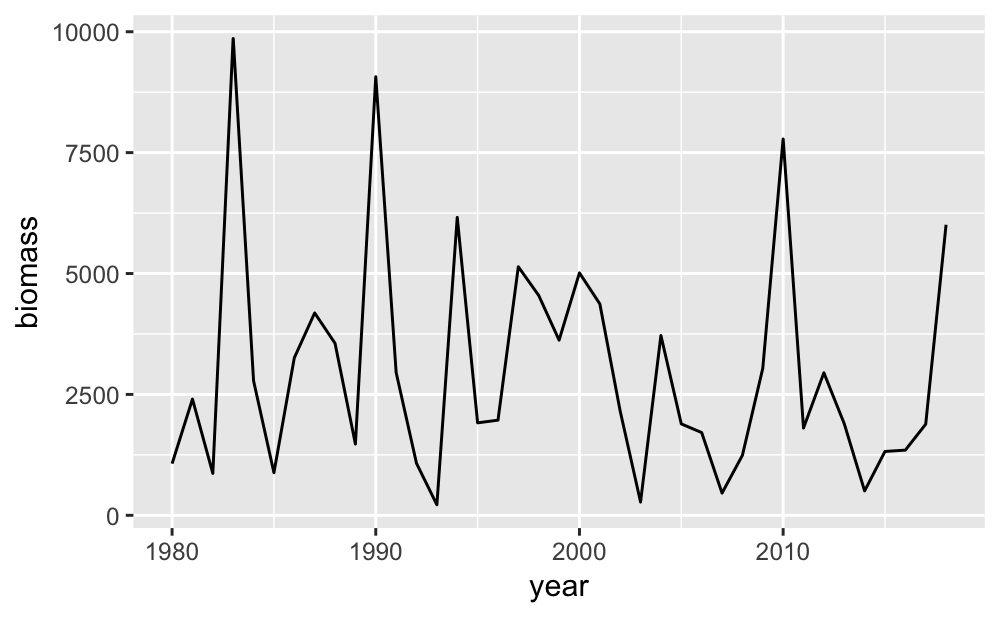
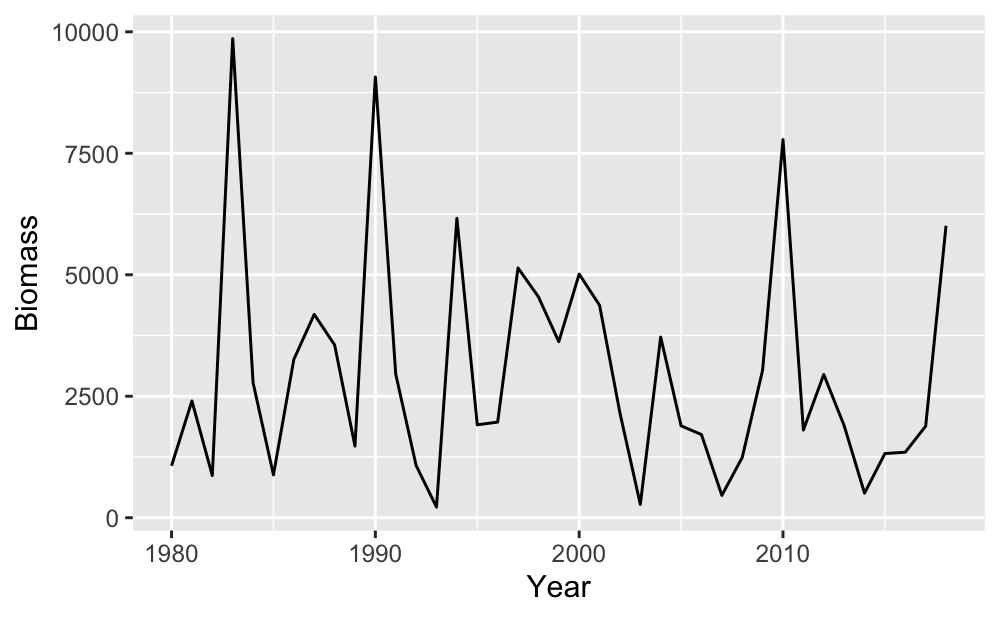
Update the readme file

diff --git a/README.md b/README.md
@@ -60,8 +60,8 @@ df <- data.frame(years, biomass = 2000 * rlnorm(length(years), 0, 1))
 ``` r
 make_plot <- function(french = FALSE) {
   ggplot(df, aes(years, biomass)) + geom_line() +
-    xlab(en2fr("year", french)) +
-    ylab(en2fr("biomass", french))
+    xlab(en2fr("Year", french)) +
+    ylab(en2fr("Biomass", french))
 }
 ```
 
@@ -78,17 +78,18 @@ make_plot(french = TRUE)
 <img src="man/figures/README-func-figs-2.png" width="70%" />
 
 ``` r
+english <- TRUE
 ggplot(df, aes(years, biomass)) + geom_line() +
-  xlab(fr2en("année")) +
-  ylab(fr2en("biomasse"))
+  xlab(fr2en("Année", english)) +
+  ylab(fr2en("Biomasse", english))
 ```
 
 <img src="man/figures/README-gg-figs-1.png" width="70%" />
 
 ``` r
 ggplot(df, aes(years, biomass)) + geom_line() +
-  xlab(trans("year", from = "english", to = c("english", "french"))) +
-  ylab(trans("biomass", from = "english", to = c("english", "french")))
+  xlab(trans("Year", from = "english", to = c("english", "french"))) +
+  ylab(trans("Biomass", from = "english", to = c("english", "french")))
 ```
 
 <img src="man/figures/README-gg-figs-both-1.png" width="70%" />
@@ -102,7 +103,9 @@ ggplot(df, aes(years, biomass)) + geom_line() +
     text editor. Please ensure your editor is saving in UTF-8 format.
     [Help with UTF-8 file encoding and
     RStudio](https://support.rstudio.com/hc/en-us/articles/200532197-Character-Encoding).
-3.  Push to GitHub and submit a pull request.
+3.  Source the file data/make-dictionary.R to include data in the
+    package.
+4.  Push to GitHub and submit a pull request.
 
 *If you’d rather a quick way to edit without worrying about Git or file
 encodings*:
@@ -115,6 +118,32 @@ encodings*:
 If both of those options are confusing, just [create an
 Issue](https://github.com/pbs-assess/rosettafish/issues/new) on the
 GitHub site and give us your new translated terms.
+
+## Updating the list and reloading the package to use your terms
+
+The above instructions are fine if you’re willing to wait for us to
+merge your pull request. If instead you want to update the terms and use
+the package immediately, follow the above instructions to add your terms
+and then open `data-raw/make-dictionary.R` and source it in R. This
+will:
+
+  - sort the `inst/extdata/terms.csv` dictionary file alphabetically
+  - stop you if there are any duplicates (fix them\!)
+  - save the data into the package data so it can be used
+
+After sourcing this file, you can reinstall the package to use it. For
+example, with your working directory set to the rosettafish folder:
+
+``` r
+devtools::install(quick = TRUE, dependencies = FALSE)
+```
+
+Or open the project in RStudio and run Build `->` Install and Restart.
+
+You will need to restart any other R sessions to be able to use the
+newly installed package.
+
+## Code of conduct
 
 Please note that the ‘rosettafish’ project is released with a
 [Contributor Code of Conduct](.github/CODE_OF_CONDUCT.md). By
